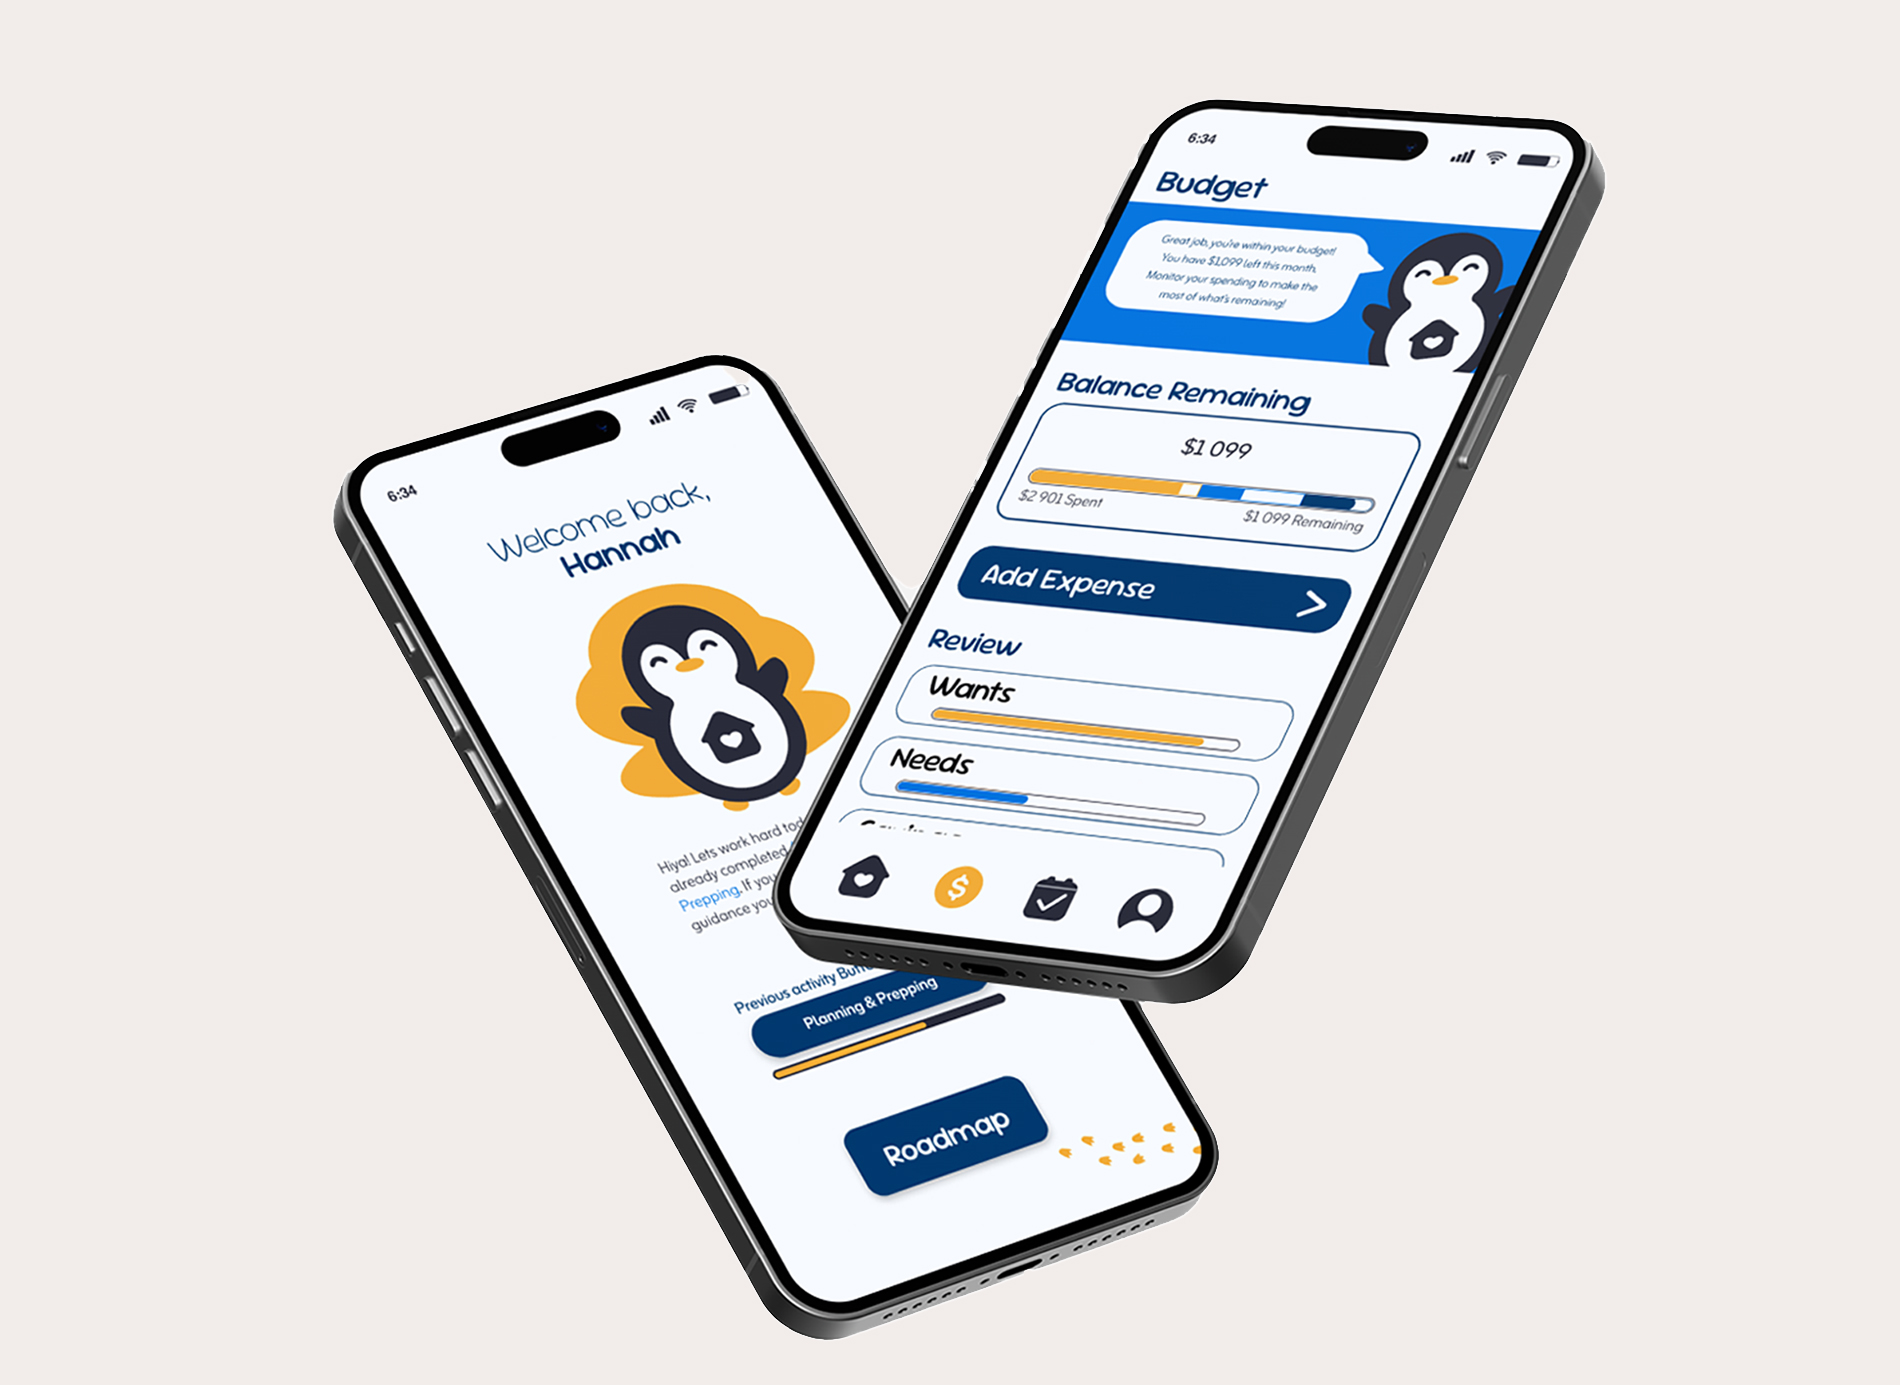
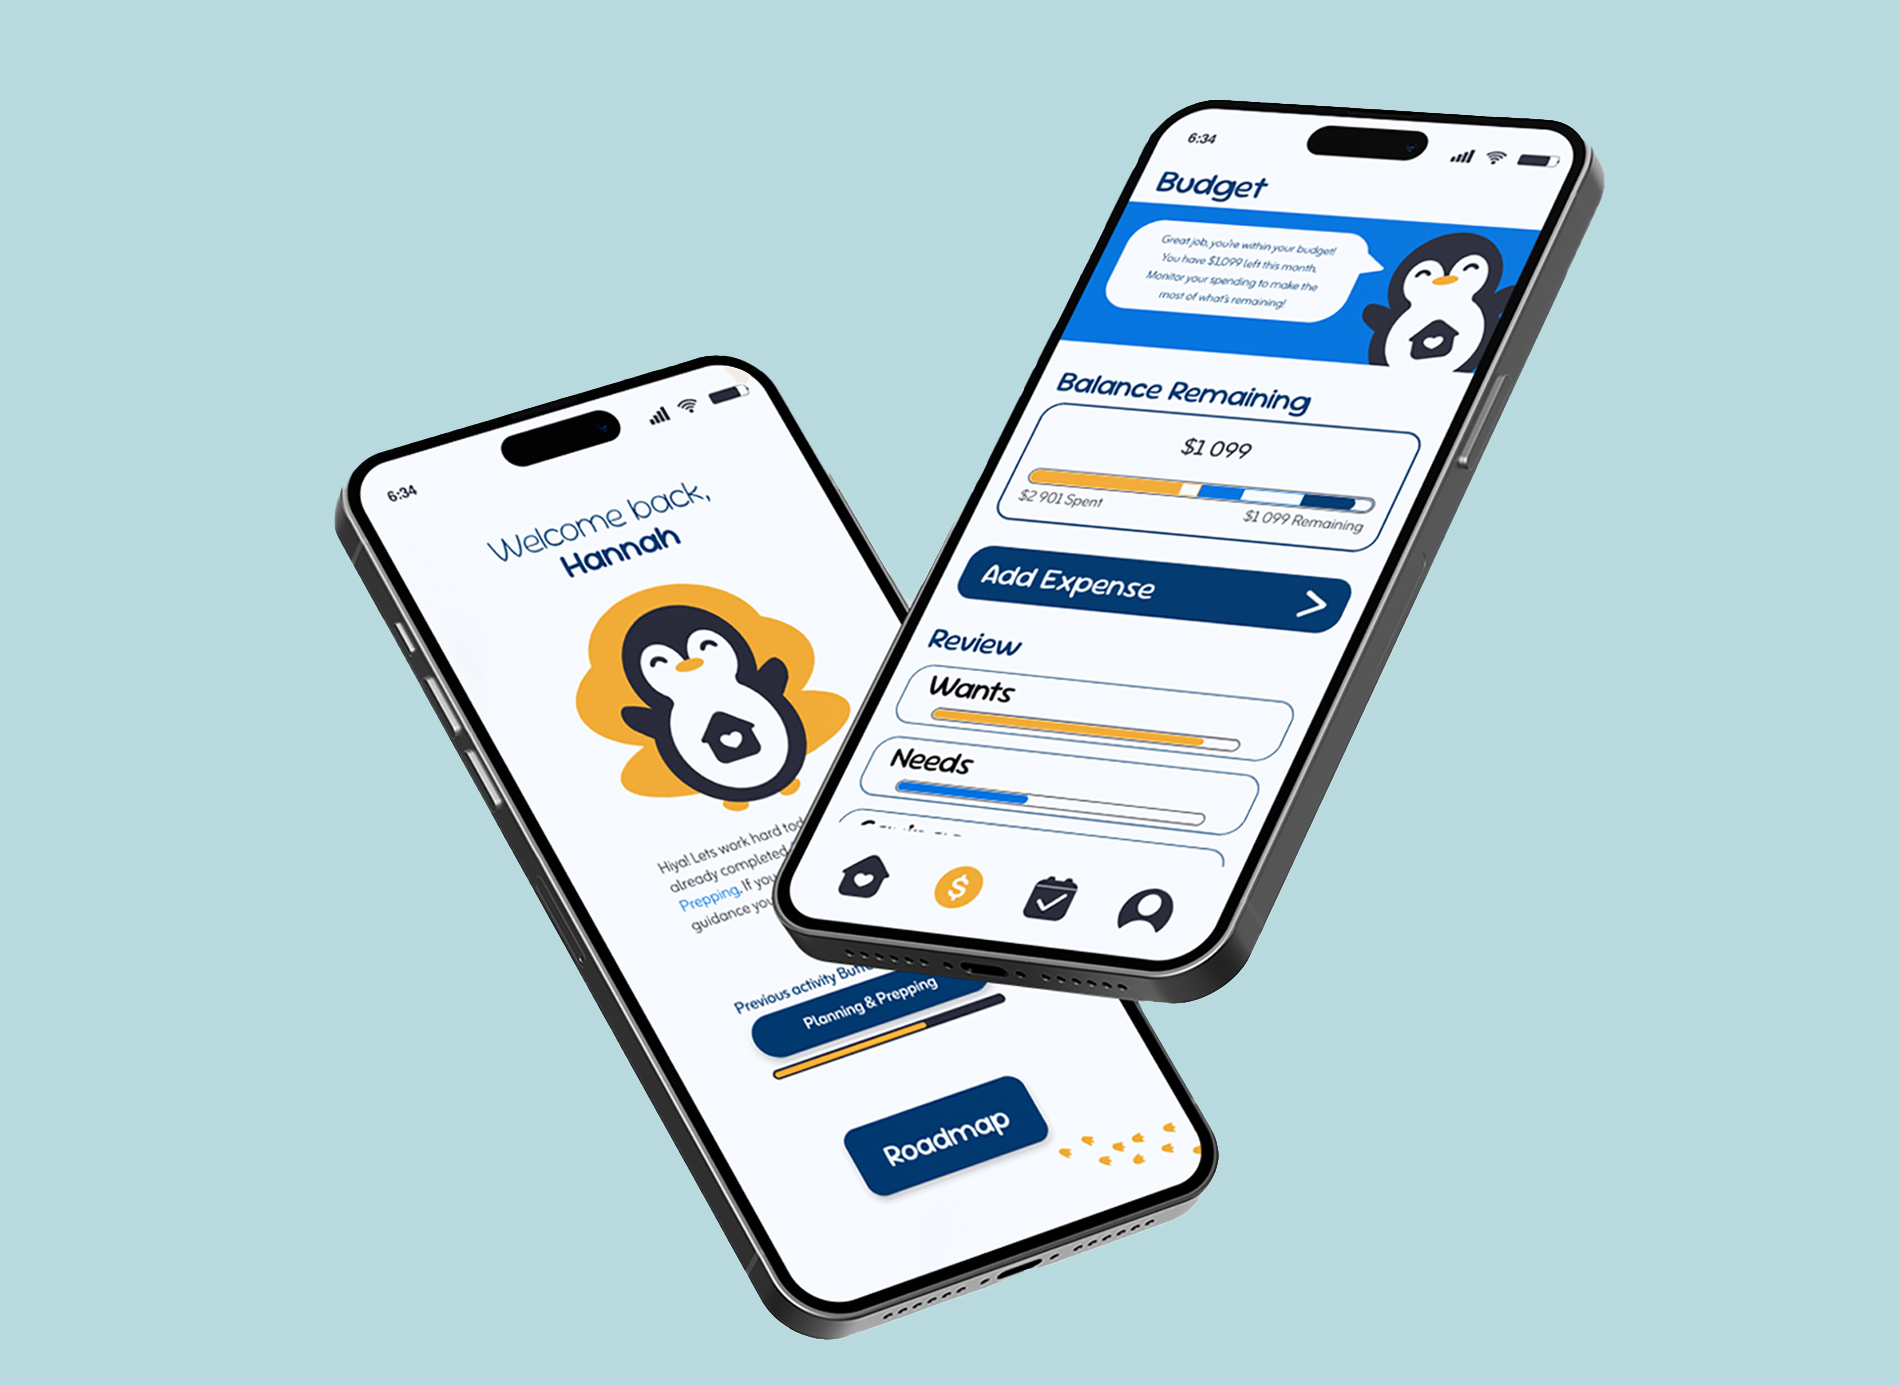
added packguin info, changed website image

diff --git a/project-packguin.html b/project-packguin.html
@@ -127,17 +127,72 @@
         </div>
         <div class="project-description-container">
           <div class="project-title col-2">
-            <h2>Problem Statement</h2>
+            <h2>Solution</h2>
           </div>
           <div class="project-description col-2">
             <p>
-              First-time movers often do not have a clear budget or the skills
-              they need to live on their own. Because of this, they can feel
-              stressed and unprepared during the moving process.
+              Our app helps first-time movers feel ready and less stressed. It
+              includes simple budget tools, helpful guides, and a progress
+              tracker to support each step. A friendly mascot also helps users
+              feel less alone during the moving process.
             </p>
           </div>
         </div>
-        <section class="full-width-section packguin-accent blue-background">
+        <section class="full-width-section">
+          <div class="full-width-headline-wrapper">
+            <h2 class="h2-full-width">Design</h2>
+          </div>
+          <div class="project-description-container">
+            <div class="project-description col-2">
+              <h2>See Current phase and progress</h2>
+              <p>
+                Users can see their current phase and track their progress. The
+                app shows what tasks are done and what is next. Users can tap
+                into a task to see steps and stay on track.
+              </p>
+            </div>
+            <div class="project-description col-2">
+              <img
+                src="assets/project-1/packguin-2screens.jpg"
+                alt="Two angled smartphone mockups displaying a mobile app interface with a penguin mascot, showing a welcome screen and budget tracking features."
+              />
+            </div>
+          </div>
+        </section>
+        <div class="project-description-container">
+          <div class="project-description col-2">
+            <h2>View Task description & tutorials</h2>
+            <p>
+              Users can view a task and learn how to complete it. The app
+              provides simple guides and video tutorials to help them understand
+              each step. Users can then try the task themselves.
+            </p>
+          </div>
+          <div class="project-description col-2">
+            <img
+              src="assets/project-1/packguin-2screens.jpg"
+              alt="Two angled smartphone mockups displaying a mobile app interface with a penguin mascot, showing a welcome screen and budget tracking features."
+            />
+          </div>
+        </div>
+        <div class="project-description-container">
+          <div class="project-description col-2">
+            <h2>Create a Personalized budget with support</h2>
+            <p>
+              Users can create a budget step by step with support. The app
+              guides them through needs, wants, and savings. It also shows their
+              balance and gives feedback to help them stay within their budget.
+            </p>
+          </div>
+          <div class="project-description col-2">
+            <img
+              src="assets/project-1/packguin-2screens.jpg"
+              alt="Two angled smartphone mockups displaying a mobile app interface with a penguin mascot, showing a welcome screen and budget tracking features."
+            />
+          </div>
+        </div>
+
+        <section class="full-width-section">
           <div class="full-width-headline-wrapper">
             <h2 class="h2-full-width">Research</h2>
           </div>
@@ -200,14 +255,13 @@
         </section>
         <div class="project-description-container">
           <div class="project-title col-2">
-            <h2>Solution</h2>
+            <h2>Problem Statement</h2>
           </div>
           <div class="project-description col-2">
             <p>
-              Our app helps first-time movers feel ready and less stressed. It
-              includes simple budget tools, helpful guides, and a progress
-              tracker to support each step. A friendly mascot also helps users
-              feel less alone during the moving process.
+              First-time movers often do not have a clear budget or the skills
+              they need to live on their own. Because of this, they can feel
+              stressed and unprepared during the moving process.
             </p>
           </div>
         </div>
